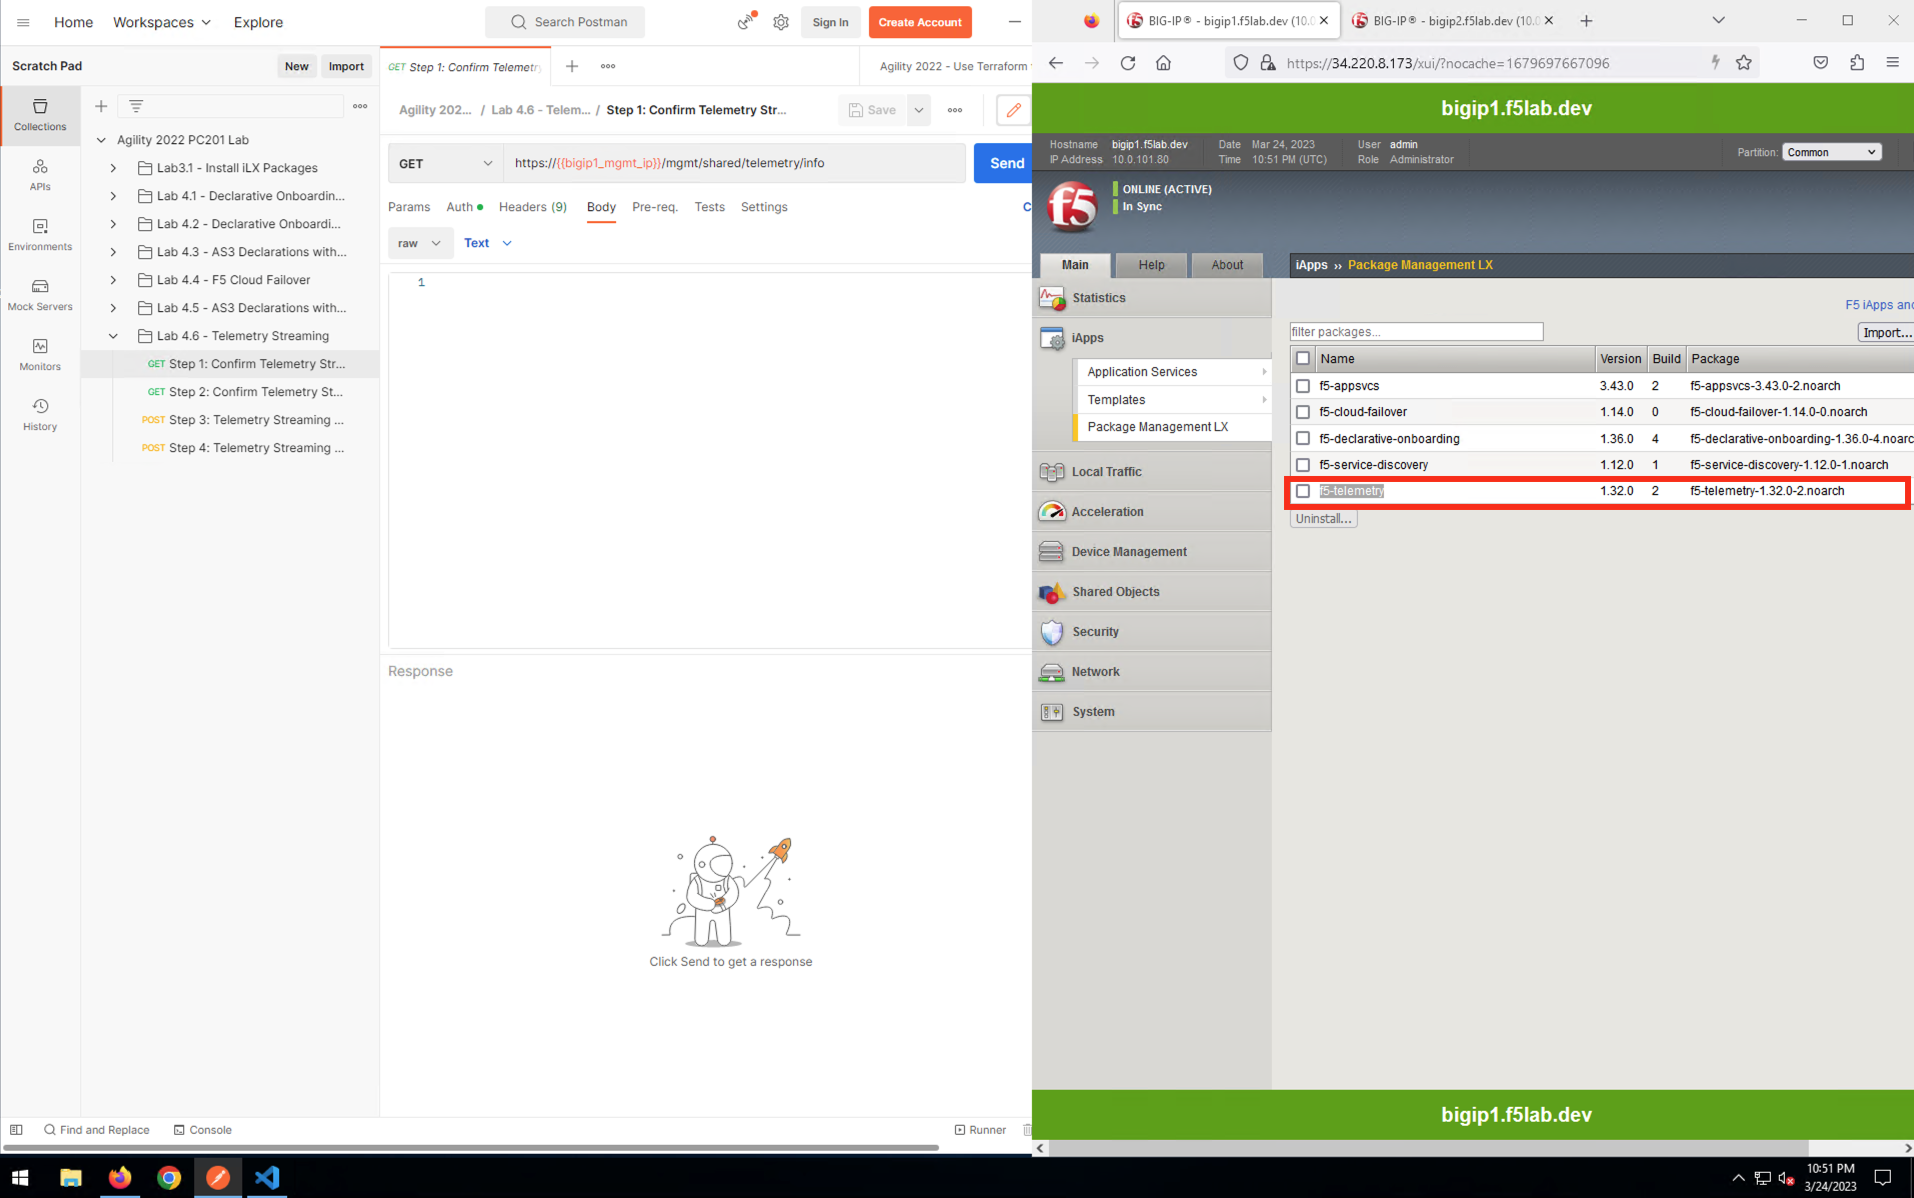
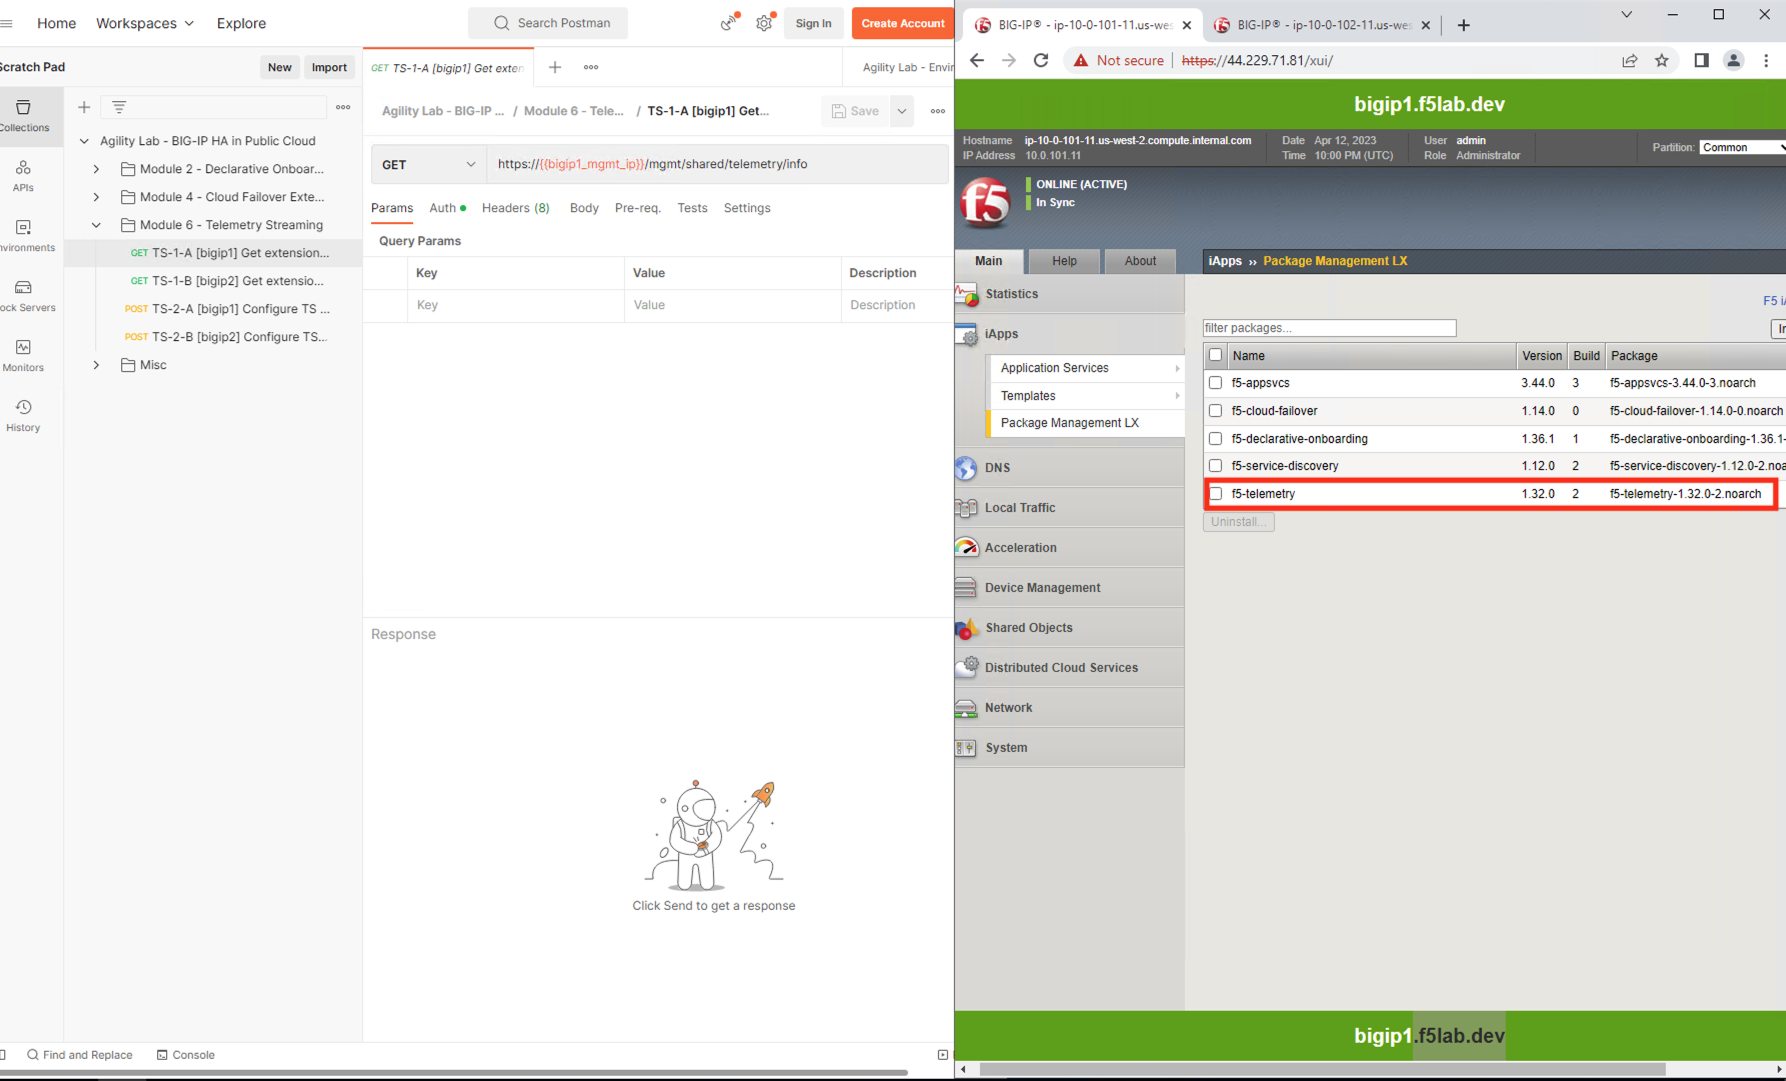
screen shot updtaes for module 6 lab3.tst

diff --git a/docs/class13/module6/lab3.rst b/docs/class13/module6/lab3.rst
@@ -6,7 +6,7 @@ Verify that F5 Telemetry Streaming has been installed via the WebUI and API
 Verify installation via the WebUI
 --------------------------------------------------------------------------------
 
-From Big-IP1, iApps => Package Management LX. Note the f5-telemetry package is installed.
+From Big-IP1, naviagte to **iApps > Package Management LX**. Note the f5-telemetry package is installed.
 
 Do the same for Big-IP2.
 
@@ -17,14 +17,14 @@ Do the same for Big-IP2.
 Verify installation via API
 --------------------------------------------------------------------------------
 
-From Postman, “Lab 4.6 - Telemetry Streaming” => “Step 1: Confirm Telemetry Streaming REST API - BIGIP1” => [Send].
+From Postman, naviagte to “Module 6 - Telemetry Streaming” > **“TS-1-A [bigip1] Get extension status”** > and click [Send].
 
 "Status: 200 OK" response signals that the F5 Telemetry Streaming Extension (BIG-IP TS) is ready on Big-IP1.
 
 .. image:: ./images/2023_2_postman_telemetry_streaming_status_bigip1.png
 	   :scale: 50%
 
-From Postman, “Lab 4.6 - Telemetry Streaming” => “Step 2: Confirm Telemetry Streaming REST API - BIGIP2” => [Send].
+From Postman, nagigate to “Module 6 - Telemetry Streaming” > **“TS-1-B [bigip2] Get extension status”** > and click [Send].
 
 "Status: 200 OK" response signals that the F5 Telemetry Streaming Extension (BIG-IP TS) is ready on Big-IP2.
 
